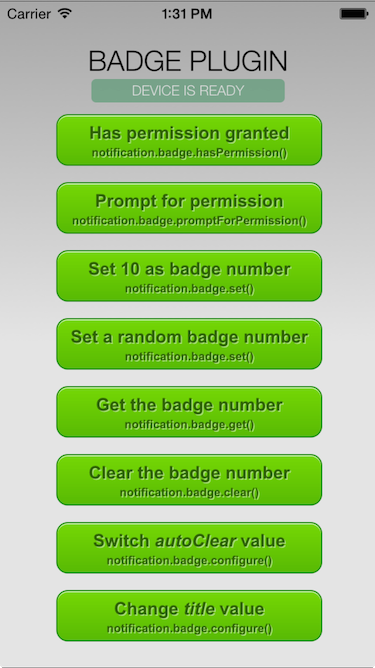
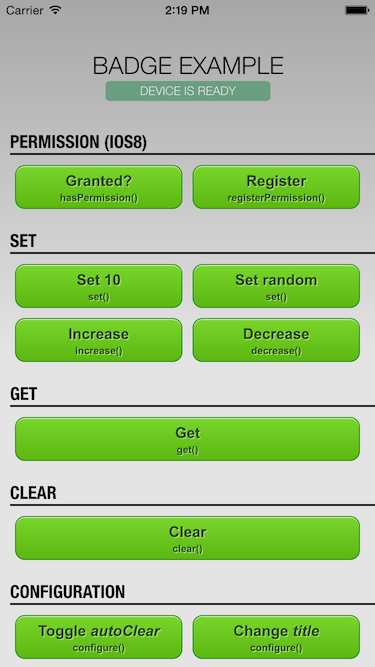
Update project

diff --git a/plugins/de.appplant.cordova.plugin.badge/scripts/ios/didRegisterUserNotificationSettings.js b/plugins/de.appplant.cordova.plugin.badge/scripts/ios/didRegisterUserNotificationSettings.js
@@ -109,11 +109,11 @@ module.exports = function (context) {
         "}\n" +
         "#endif\n";
 
-    // Inserts the external constant decleration
+    // Inserts the constant decleration
     replace(h_path, '@interface AppDelegate', h_UIApplicationRegisterUserNotificationSettings + "\n@interface AppDelegate");
     // Inserts the constant implementation
     replace(m_path, '@implementation AppDelegate', m_UIApplicationRegisterUserNotificationSettings + "\n@implementation AppDelegate");
-    // Inserts the didRegisterUserNotificationSettings method
+    // Inserts the didRegisterUserNotificationSettings implementation
     replace(m_path, '@end', didRegisterUserNotificationSettings + "\n@end");
 
 };

diff --git a/platforms/android/assets/www/plugins/de.appplant.cordova.plugin.badge/www/badge.js b/platforms/android/assets/www/plugins/de.appplant.cordova.plugin.badge/www/badge.js
@@ -95,7 +95,7 @@ Badge.prototype = {
      */
     decrease: function (count) {
         this.get(function (badge) {
-            this.set(Math.max(0, (count || 1) - badge));
+            this.set(Math.max(0, badge - (count || 1)));
         }, this);
     },
 

diff --git a/platforms/ios/www/plugins/de.appplant.cordova.plugin.badge/www/badge.js b/platforms/ios/www/plugins/de.appplant.cordova.plugin.badge/www/badge.js
@@ -95,7 +95,7 @@ Badge.prototype = {
      */
     decrease: function (count) {
         this.get(function (badge) {
-            this.set(Math.max(0, (count || 1) - badge));
+            this.set(Math.max(0, badge - (count || 1)));
         }, this);
     },
 

diff --git a/platforms/wp8/www/plugins/de.appplant.cordova.plugin.badge/www/badge.js b/platforms/wp8/www/plugins/de.appplant.cordova.plugin.badge/www/badge.js
@@ -95,7 +95,7 @@ Badge.prototype = {
      */
     decrease: function (count) {
         this.get(function (badge) {
-            this.set(Math.max(0, (count || 1) - badge));
+            this.set(Math.max(0, badge - (count || 1)));
         }, this);
     },
 

diff --git a/plugins/de.appplant.cordova.plugin.badge/www/badge.js b/plugins/de.appplant.cordova.plugin.badge/www/badge.js
@@ -95,7 +95,7 @@ Badge.prototype = {
      */
     decrease: function (count) {
         this.get(function (badge) {
-            this.set(Math.max(0, (count || 1) - badge));
+            this.set(Math.max(0, badge - (count || 1)));
         }, this);
     },
 

diff --git a/platforms/android/assets/www/cordova_plugins.js b/platforms/android/assets/www/cordova_plugins.js
@@ -12,7 +12,7 @@ module.exports = [
 module.exports.metadata = 
 // TOP OF METADATA
 {
-    "de.appplant.cordova.plugin.badge": "0.6.3dev"
+    "de.appplant.cordova.plugin.badge": "0.6.3"
 }
 // BOTTOM OF METADATA
 });

diff --git a/platforms/ios/www/cordova_plugins.js b/platforms/ios/www/cordova_plugins.js
@@ -12,7 +12,7 @@ module.exports = [
 module.exports.metadata = 
 // TOP OF METADATA
 {
-    "de.appplant.cordova.plugin.badge": "0.6.3dev"
+    "de.appplant.cordova.plugin.badge": "0.6.3"
 }
 // BOTTOM OF METADATA
 });

diff --git a/platforms/wp8/www/cordova_plugins.js b/platforms/wp8/www/cordova_plugins.js
@@ -12,7 +12,7 @@ module.exports = [
 module.exports.metadata = 
 // TOP OF METADATA
 {
-    "de.appplant.cordova.plugin.badge": "0.6.3dev"
+    "de.appplant.cordova.plugin.badge": "0.6.3"
 }
 // BOTTOM OF METADATA
 });

diff --git a/platforms/ios/BadgeExample/Plugins/de.appplant.cordova.plugin.badge/UIApplication+APPBadge.m b/platforms/ios/BadgeExample/Plugins/de.appplant.cordova.plugin.badge/UIApplication+APPBadge.m
@@ -55,7 +55,11 @@
     UIUserNotificationType types;
     UIUserNotificationSettings *settings;
 
-    types    = UIUserNotificationTypeBadge;
+    settings = [[UIApplication sharedApplication]
+                currentUserNotificationSettings];
+
+    types    = settings.types | UIUserNotificationTypeBadge;
+
     settings = [UIUserNotificationSettings settingsForTypes:types
                                                  categories:nil];
 

diff --git a/plugins/de.appplant.cordova.plugin.badge/src/ios/UIApplication+APPBadge.m b/plugins/de.appplant.cordova.plugin.badge/src/ios/UIApplication+APPBadge.m
@@ -55,7 +55,11 @@
     UIUserNotificationType types;
     UIUserNotificationSettings *settings;
 
-    types    = UIUserNotificationTypeBadge;
+    settings = [[UIApplication sharedApplication]
+                currentUserNotificationSettings];
+
+    types    = settings.types | UIUserNotificationTypeBadge;
+
     settings = [UIUserNotificationSettings settingsForTypes:types
                                                  categories:nil];
 

diff --git a/plugins/de.appplant.cordova.plugin.badge/README.md b/plugins/de.appplant.cordova.plugin.badge/README.md
@@ -57,27 +57,24 @@ cordova plugin add de.appplant.cordova.plugin.badge --searchpath path/to/plugin
 or to use the last stable version:
 ```bash
 # ~~ stable version ~~
-cordova plugin add de.appplant.cordova.plugin.badge@0.6.2
+cordova plugin add de.appplant.cordova.plugin.badge@0.6.3
 ```
 
 ### PhoneGap Build
 Add the following xml to your config.xml to always use the latest version of this plugin:
 ```xml
-<gap:plugin name="de.appplant.cordova.plugin.badge" version="0.6.2" />
+<gap:plugin name="de.appplant.cordova.plugin.badge" version="0.6.3" />
 ```
 More informations can be found [here][PGB_plugin].
 
 
 ## ChangeLog
 
-#### Version 0.6.3 (not yet released)
-- New interfaces `increase()` to increase and `decrease()` to decrease the badge number.
-
-#### Version 0.6.2 (01.03.2015)
-- [change:] Renamed `registerPermission` to `registerPermission`. Older one is still supported.
-- [enhancement:] Support iOS8 and older SDK versions from a single binary.
-- [enhancement:] `registerPermission` returns result of registration.
-- [enhancement:] No need anymore to call `registerPermission` explicit before trying to set the badge number.
+#### Version 0.6.3 (22.03.2015)
+- New interfaces to increase or decrease the badge number.
+- Fix incompatibility with local-notification plugin.
+- Add instead of replace permissions on iOS
+- Refreshed layout of the example app.
 
 #### Further informations
 - See [CHANGELOG.md][changelog] to get the full changelog for the plugin.
@@ -272,7 +269,7 @@ This software is released under the [Apache 2.0 License][apache2_license].
 [wp8_notification_guide]: http://msdn.microsoft.com/en-us/library/windowsphone/develop/hh202948.aspx
 [CLI]: http://cordova.apache.org/docs/en/edge/guide_cli_index.md.html#The%20Command-line%20Interface
 [PGB]: http://docs.build.phonegap.com/en_US/index.html
-[PGB_plugin]: https://build.phonegap.com/plugins/1195
+[PGB_plugin]: https://build.phonegap.com/plugins/2324
 [changelog]: CHANGELOG.md
 [has_permission]: #determine-if-the-app-does-have-the-permission-to-show-badge-notifications
 [register_permission]: #register-permission-for-badge-notifications

diff --git a/plugins/de.appplant.cordova.plugin.badge/CHANGELOG.md b/plugins/de.appplant.cordova.plugin.badge/CHANGELOG.md
@@ -1,6 +1,9 @@
 ## ChangeLog
-#### Version 0.6.3 (not yet released)
+#### Version 0.6.3 (22.03.2015)
 - New interfaces to increase or decrease the badge number.
+- Fix incompatibility with local-notification plugin.
+- Add instead of replace permissions on iOS.
+- Refreshed layout of the example app.
 
 #### Version 0.6.2 (01.03.2015)
 - [change:] Renamed `promptForPermission` to `registerPermission`. Older one is still supported.
